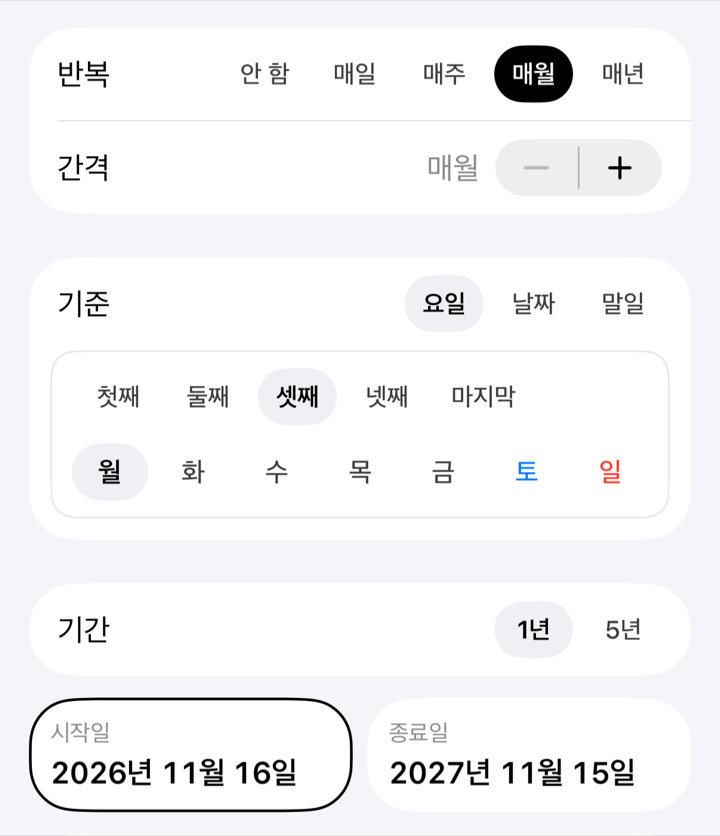
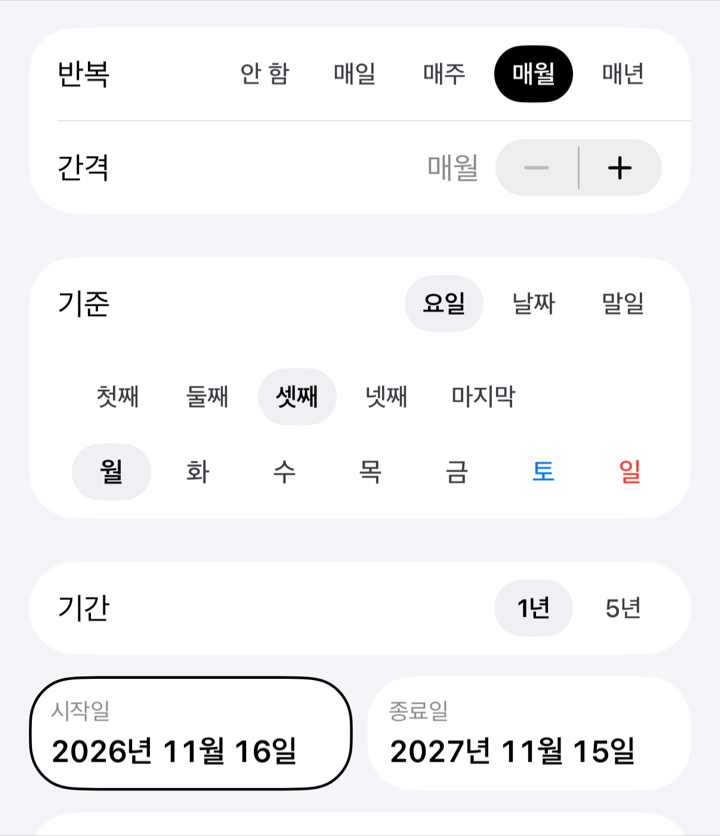
improve: blog — 반복 옵션 글, 기준 값 묶음을 테두리 상자에서 들여쓰기로
Claude-Session: https://claude.ai/code/session_01UreDqo832rbEhHWWX6AaNy

diff --git a/src/content/blog/en/2026-11-18-timetable-recurrence-units.md b/src/content/blog/en/2026-11-18-timetable-recurrence-units.md
@@ -1,6 +1,6 @@
 ---
 title: "Adding 'first and third Friday' and 'every 3 days' without adding a chip"
-date: 2026-11-21T20:03:42+09:00
+date: 2026-11-21T21:16:19+09:00
 app: "timetable"
 tags: ["devlog", "design", "data"]
 summary: "Calendar repeats were weekly only. Two requests made us lay out everything the iCalendar standard offers and decide what to take and what to leave."
@@ -83,7 +83,7 @@ The problem was not the number of rows. Every row looked equally important: the 
 
 How you pick and what gets saved did not change. Only the layout and the selection style did.
 
-![After: three cards, only the frequency chip filled black, week and weekday inside an outlined box under Basis](/blog/timetable-recurrence-units/hierarchy-after-weekday.png)
+![After: three cards, only the frequency chip filled black, week and weekday sit right under Basis with no divider](/blog/timetable-recurrence-units/hierarchy-after-weekday.png)
 
 | Card | Question | Contents |
 |---|---|---|
@@ -92,7 +92,7 @@ How you pick and what gets saved did not change. Only the layout and the selecti
 | Third | Until when | Duration presets, start and end dates, calendar |
 
 - **One black fill per form** — only the frequency chip uses the solid fill. Two months ago we toned this form down to gray pills because all-black was loud. All-gray turned out to have no center. One filled chip at the top is the exception, not a reversal.
-- **An outline, not a tinted box** — the plan was a light gray box for the values under Basis. The selection pill (#EFEFF4) is almost the same gray, so the selected chip would vanish. A 1pt outline groups them without touching the pill.
+- **Remove a line instead of adding a box** — the plan was a light gray box for the values under Basis, but the selection pill (#EFEFF4) is almost the same gray and the selected chip would vanish. A 1pt outlined box grouped them, yet it put one more rectangle inside the card. In the end the values simply lost the divider above them and got a 12pt indent. Every other row has a divider, so its absence is the grouping.
 
 Collapsing the 1–31 grid, rewording the interval and a summary sentence at the top were proposed and left for later. Checked on iPhone in light mode only.
 
